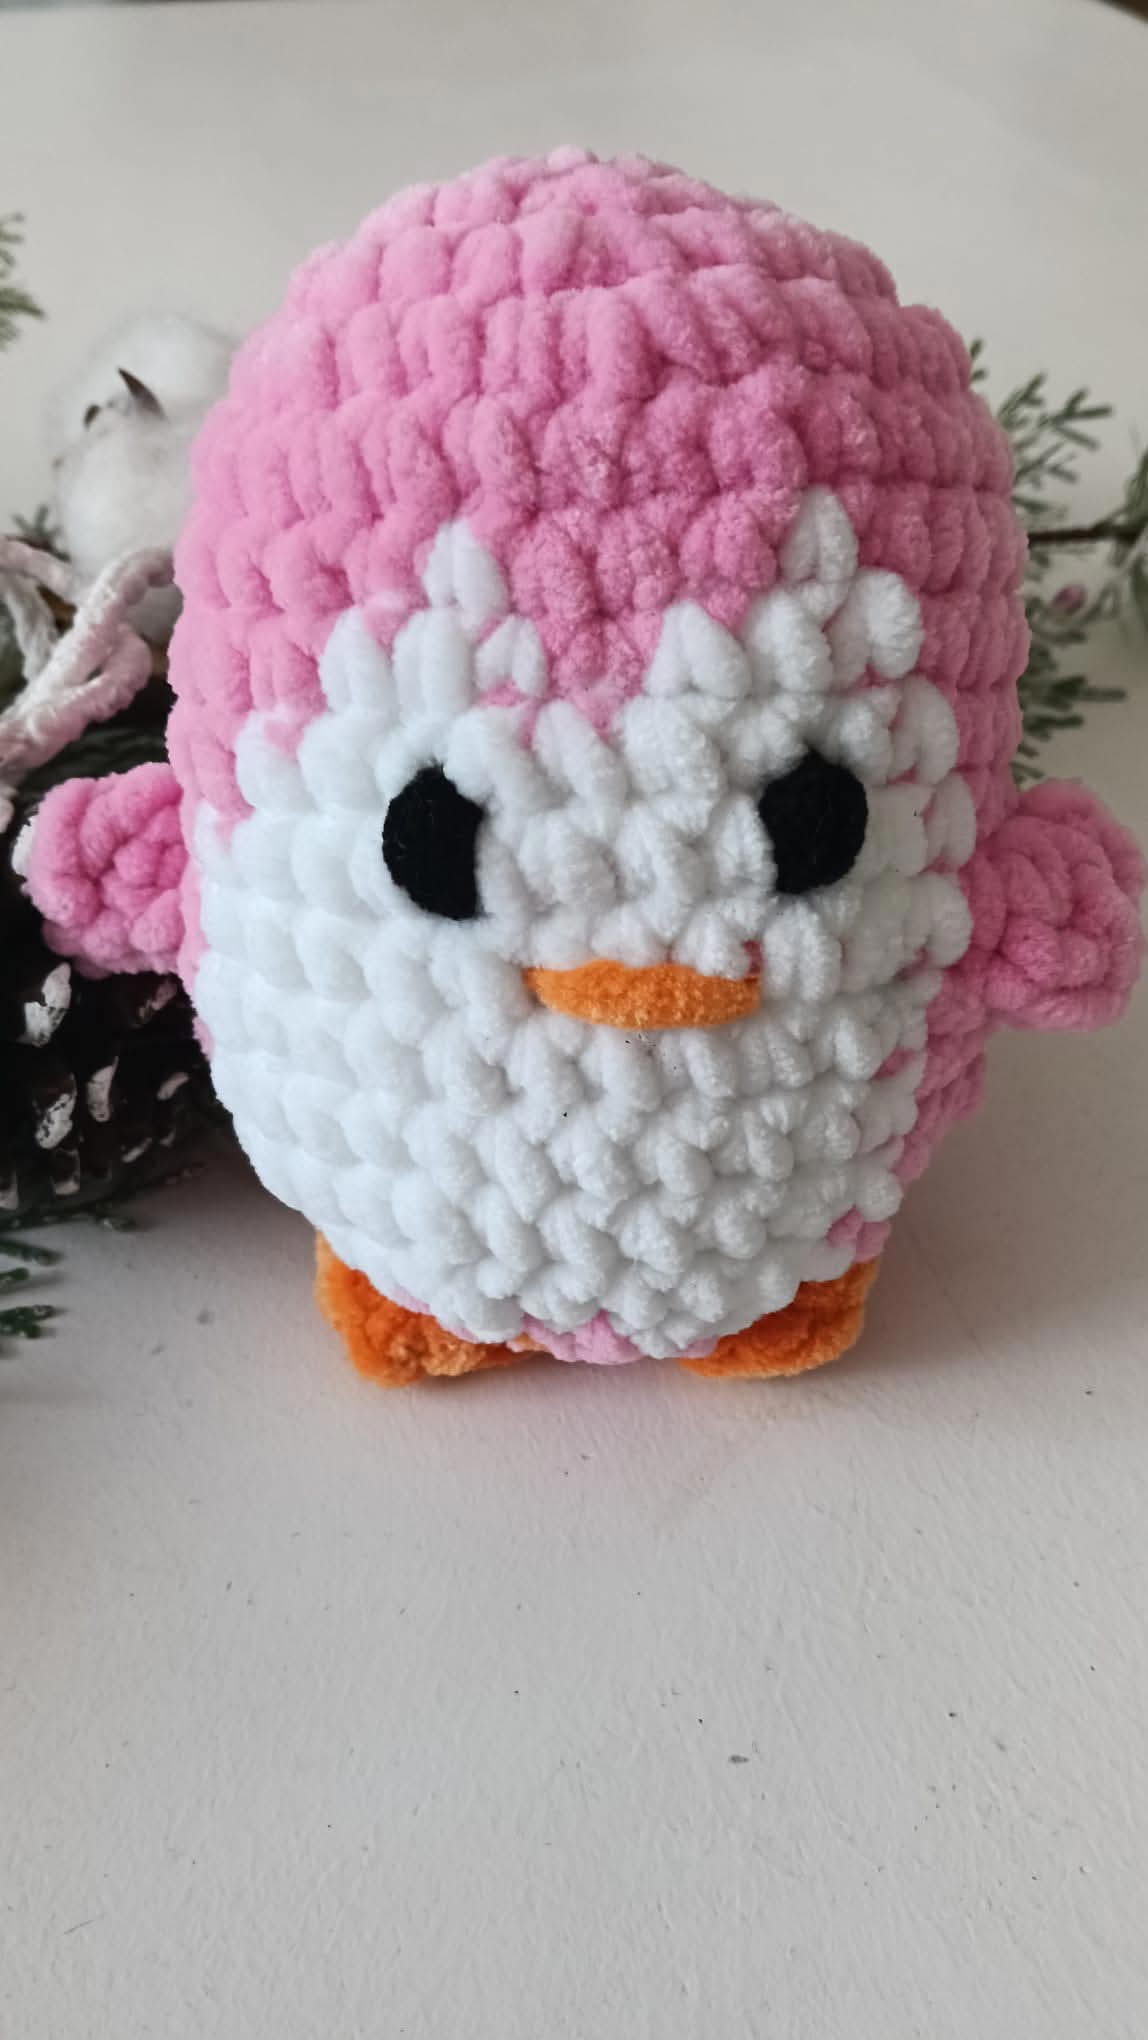
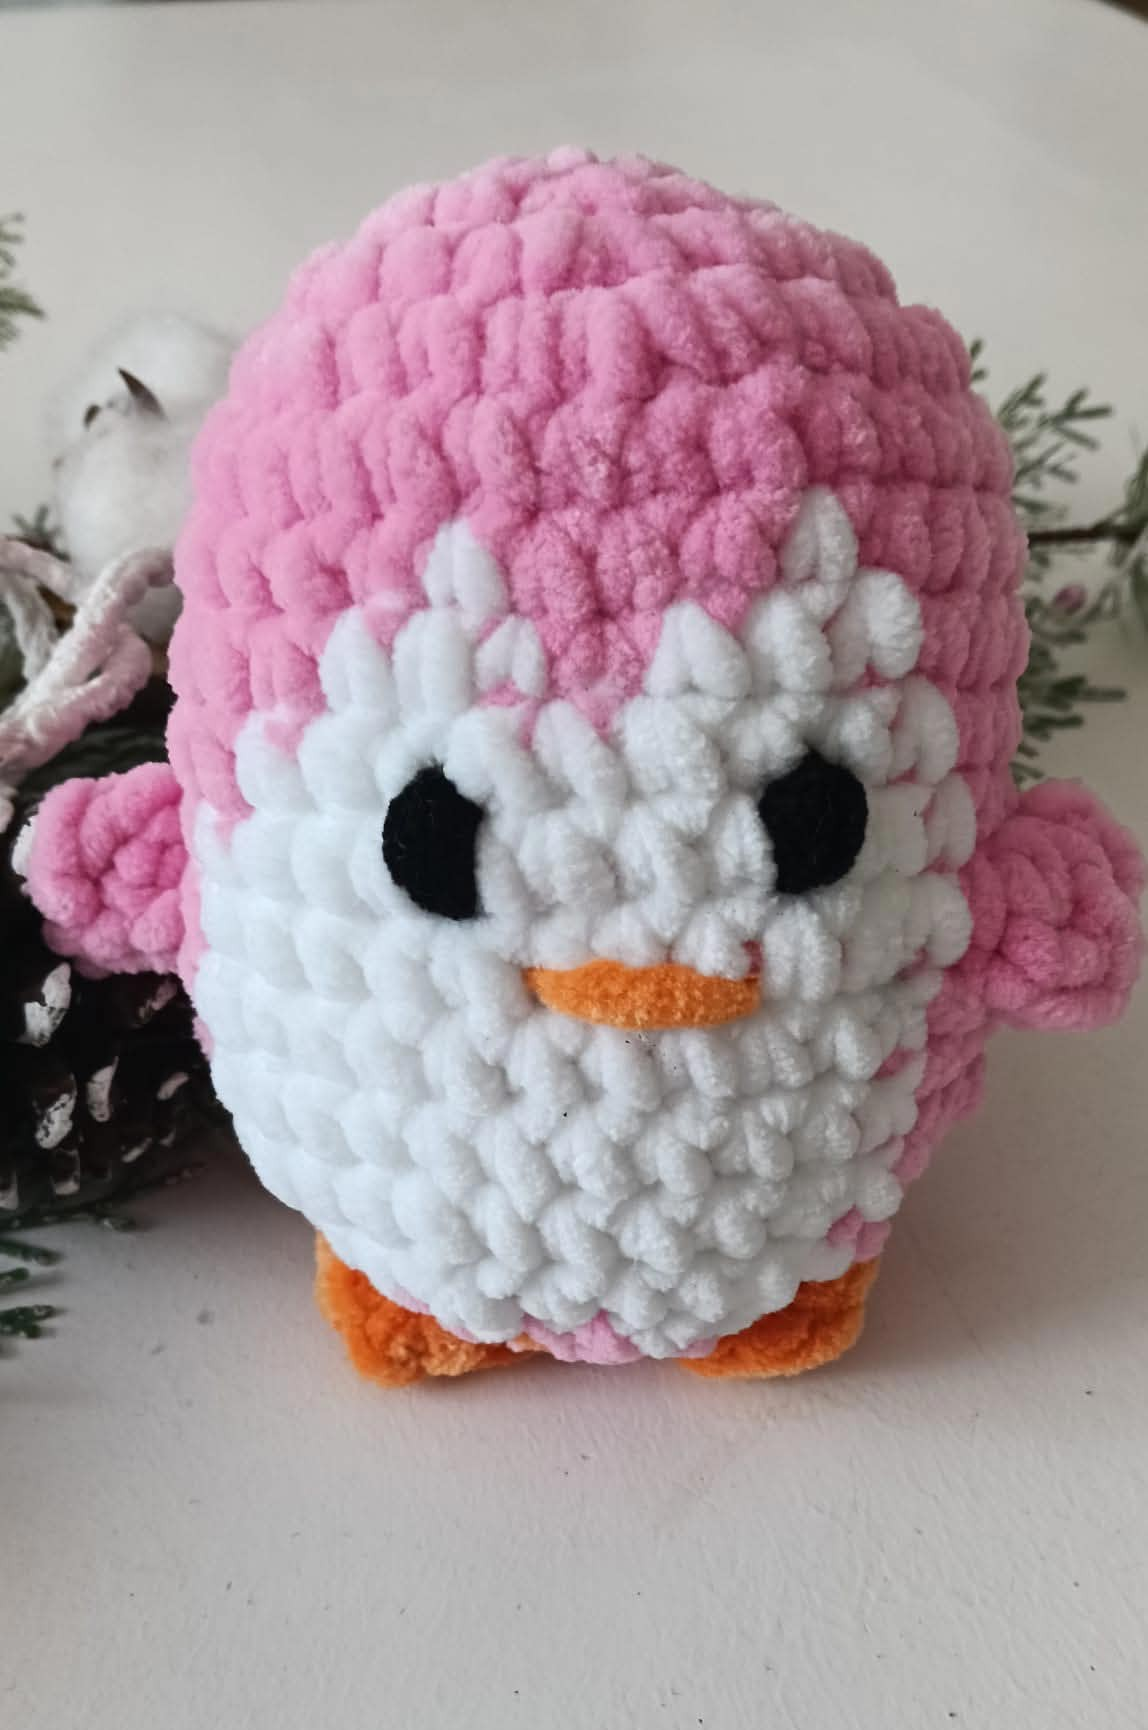
Add files via upload

diff --git a/style.css b/style.css
@@ -145,6 +145,7 @@ p { margin-bottom: 1rem; font-size: 1.1rem; }
     min-height: 80vh;
     display: flex;
     align-items: center;
+    justify-content: space-between;
     padding: 2rem 5%;
     position: relative;
     overflow: hidden;
@@ -160,6 +161,30 @@ p { margin-bottom: 1rem; font-size: 1.1rem; }
     border-radius: var(--border-radius);
     backdrop-filter: blur(5px);
     border: 2px dashed var(--primary-color);
+}
+
+.hero-bear {
+    width: 260px;
+    min-height: 320px;
+    order: 0;
+    margin-left: 2rem;
+    margin-right: 0;
+    display: flex;
+    flex-direction: column;
+    align-items: center;
+    justify-content: center;
+    z-index: 10;
+}
+
+.hero-bear img {
+    width: 100%;
+    height: 100%;
+    min-height: 290px;
+    object-fit: cover;
+    object-position: center;
+    border-radius: 20px;
+    display: block;
+    box-shadow: 0 12px 28px rgba(77, 39, 54, 0.18);
 }
 
 .hero-decorations {
@@ -488,25 +513,72 @@ footer {
 /* Responsive */
 @media (max-width: 768px) {
     .header {
-        flex-direction: column;
-        gap: 1rem;
-        padding: 1rem;
+        flex-direction: row;
+        gap: 0.6rem;
+        padding: 0.55rem 0.8rem;
+        align-items: center;
+    }
+
+    .logo {
+        font-size: 1.15rem;
+        gap: 0.3rem;
+        white-space: nowrap;
+    }
+
+    .nav {
+        min-width: 0;
+        flex: 1;
     }
     
     .nav ul {
-        flex-wrap: wrap;
-        justify-content: center;
-        gap: 1rem;
+        flex-wrap: nowrap;
+        justify-content: flex-end;
+        gap: 0;
+        overflow: visible;
+        padding-bottom: 0;
+    }
+
+    .nav a:not(.btn-primary) {
+        display: none;
+    }
+
+    .nav a {
+        font-size: 0.82rem;
+        padding: 0.3rem 0.5rem;
+        white-space: nowrap;
+    }
+
+    .nav .btn-primary {
+        padding: 0.35rem 0.65rem;
+        font-size: 0.8rem;
     }
     
     .hero {
         text-align: center;
-        padding: 3rem 1rem;
+        padding: 2.2rem 1rem 2.6rem;
         min-height: auto;
+        flex-direction: column;
+        align-items: center;
+        gap: 1.2rem;
     }
     
     .hero-content {
-        padding: 1.5rem;
+        width: 100%;
+        max-width: 560px;
+        padding: 1.2rem;
+        margin: 0 auto;
+    }
+
+    .hero-bear {
+        width: min(68vw, 230px);
+        min-height: 210px;
+        margin: 0 auto 0.5rem auto;
+        order: 0;
+    }
+
+    .hero-bear img {
+        min-height: 200px;
+        border-radius: 14px;
     }
     
     .hero-decorations {

diff --git a/index.html b/index.html
@@ -38,6 +38,9 @@
                     parfaites pour offrir ou se faire plaisir.</p>
                 <a href="#collection" class="btn-primary btn-large">Découvrir la collection</a>
             </div>
+            <div class="hero-bear" aria-hidden="true">
+                <img src="images/nounous.png" alt="Nounours fait main avec amour">
+            </div>
             <div class="hero-decorations">
                 <!-- Decorative elements will be styled in CSS -->
                 <div class="blob shape-1"></div>
@@ -130,6 +133,16 @@
                         <h3>Pingouin</h3>
                         <p>Un pingouin tout rond qui donne le sourire au premier regard. Taille fixe : petite (8€).</p>
                         <button class="btn-secondary" onclick="selectPlushie('Pingouin')">Choisir</button>
+                    </div>
+                </div>
+                <div class="card">
+                    <div class="card-img-wrapper">
+                        <img src="images/poussin.jpg" alt="Poussin en peluche">
+                    </div>
+                    <div class="card-content">
+                        <h3>Poussin</h3>
+                        <p>Un petit poussin tout rond et tout doux. Taille fixe : petite (8€).</p>
+                        <button class="btn-secondary" onclick="selectPlushie('Poussin')">Choisir</button>
                     </div>
                 </div>
                 <div class="card">
@@ -280,6 +293,10 @@
                             <label class="checkbox-label"><input type="checkbox" name="peluche" value="Pingouin"
                                     id="chk-Pingouin"> Pingouin
                                 <input type="number" class="plushie-qty" min="1" value="1" aria-label="Quantite Pingouin"
+                                    style="display: none; margin-left: 8px; width: 70px;"></label>
+                            <label class="checkbox-label"><input type="checkbox" name="peluche" value="Poussin"
+                                    id="chk-Poussin"> Poussin
+                                <input type="number" class="plushie-qty" min="1" value="1" aria-label="Quantite Poussin"
                                     style="display: none; margin-left: 8px; width: 70px;"></label>
                             <label class="checkbox-label"><input type="checkbox" name="peluche" value="Raie"
                                     id="chk-Raie"> Raie

diff --git a/script.js b/script.js
@@ -166,6 +166,7 @@ document.addEventListener('DOMContentLoaded', () => {
         'Lune': 'Moyenne',
         'Soleil': 'Moyenne',
         'Pingouin': 'Petite',
+        'Poussin': 'Petite',
         'Tortue': 'Moyenne',
         'Raie': 'Petite',
         'Steve le Poisson': 'Moyenne'
@@ -180,6 +181,7 @@ document.addEventListener('DOMContentLoaded', () => {
         'Lune': 12,
         'Soleil': 12,
         'Pingouin': 8,
+        'Poussin': 8,
         'Tortue': 12,
         'Raie': 8,
         'Steve le Poisson': 12
